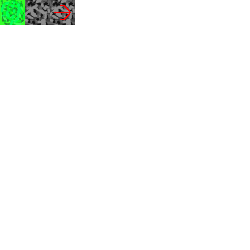
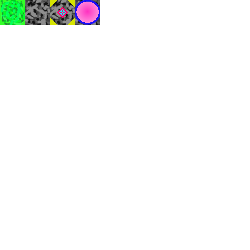
Updated Screen size. Gaps should work better with different screen sizes. Added TestLevel for testing different grid sizes.

Changed region(s): [[0.196, 0.0, 0.42, 0.112]]

diff --git a/src/additional_programs/LevelMaker.java b/src/additional_programs/LevelMaker.java
@@ -14,9 +14,8 @@ public class LevelMaker {
 	static BufferedWriter buff;
 	final static int numberOfTerrains = 3;
 	
-	public static void randomLevel() {
-		fileName = "RandomLevel";
-		Random rn = new Random();
+	public static void testLevel() {
+		fileName = "TestLevel";
 		
 		try {
 			file = new File("level/" + fileName + ".level");
@@ -24,7 +23,17 @@ public class LevelMaker {
 			
 			for(int y = 0; y < Screen.gridCountY; y++) {
 				for(int x = 0; x < Screen.gridCountX; x++) {
-					buff.write(rn.nextInt(numberOfTerrains) + " ");
+					if(y == 0) {
+						if(x == 0) {
+							buff.write(2 + " ");
+						} else if(x == Screen.gridCountX-1) {
+							buff.write(3 + " ");
+						} else {
+							buff.write(1 + " ");
+						}
+					} else {
+						buff.write(0 + " ");
+					}
 				}
 				buff.newLine();
 			}
